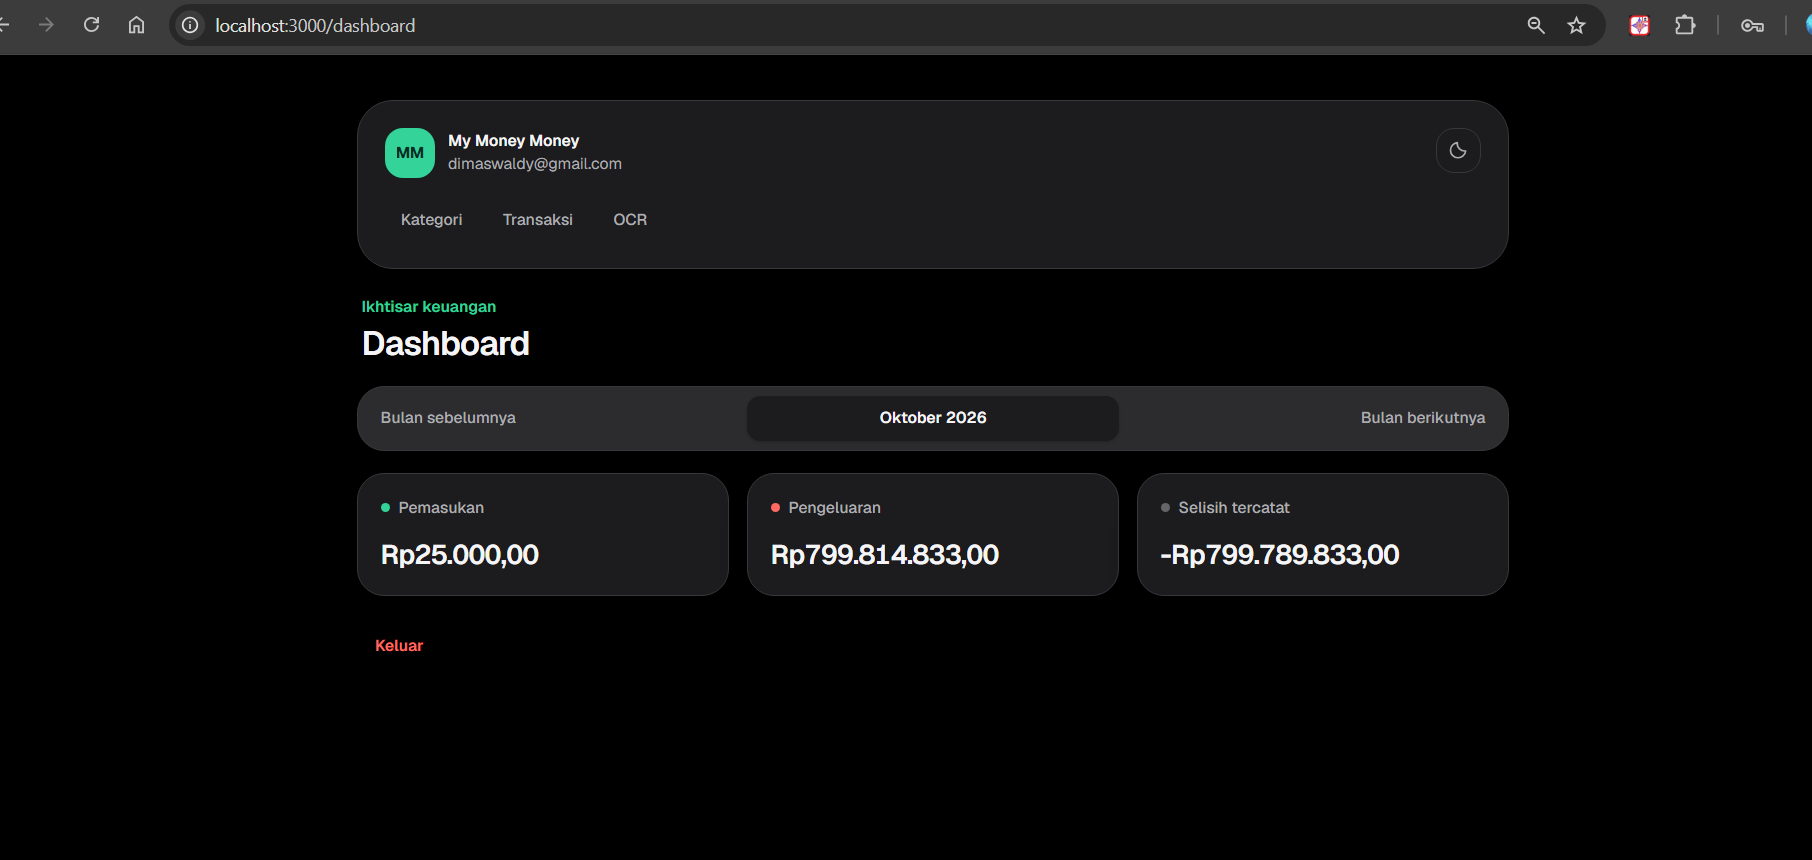
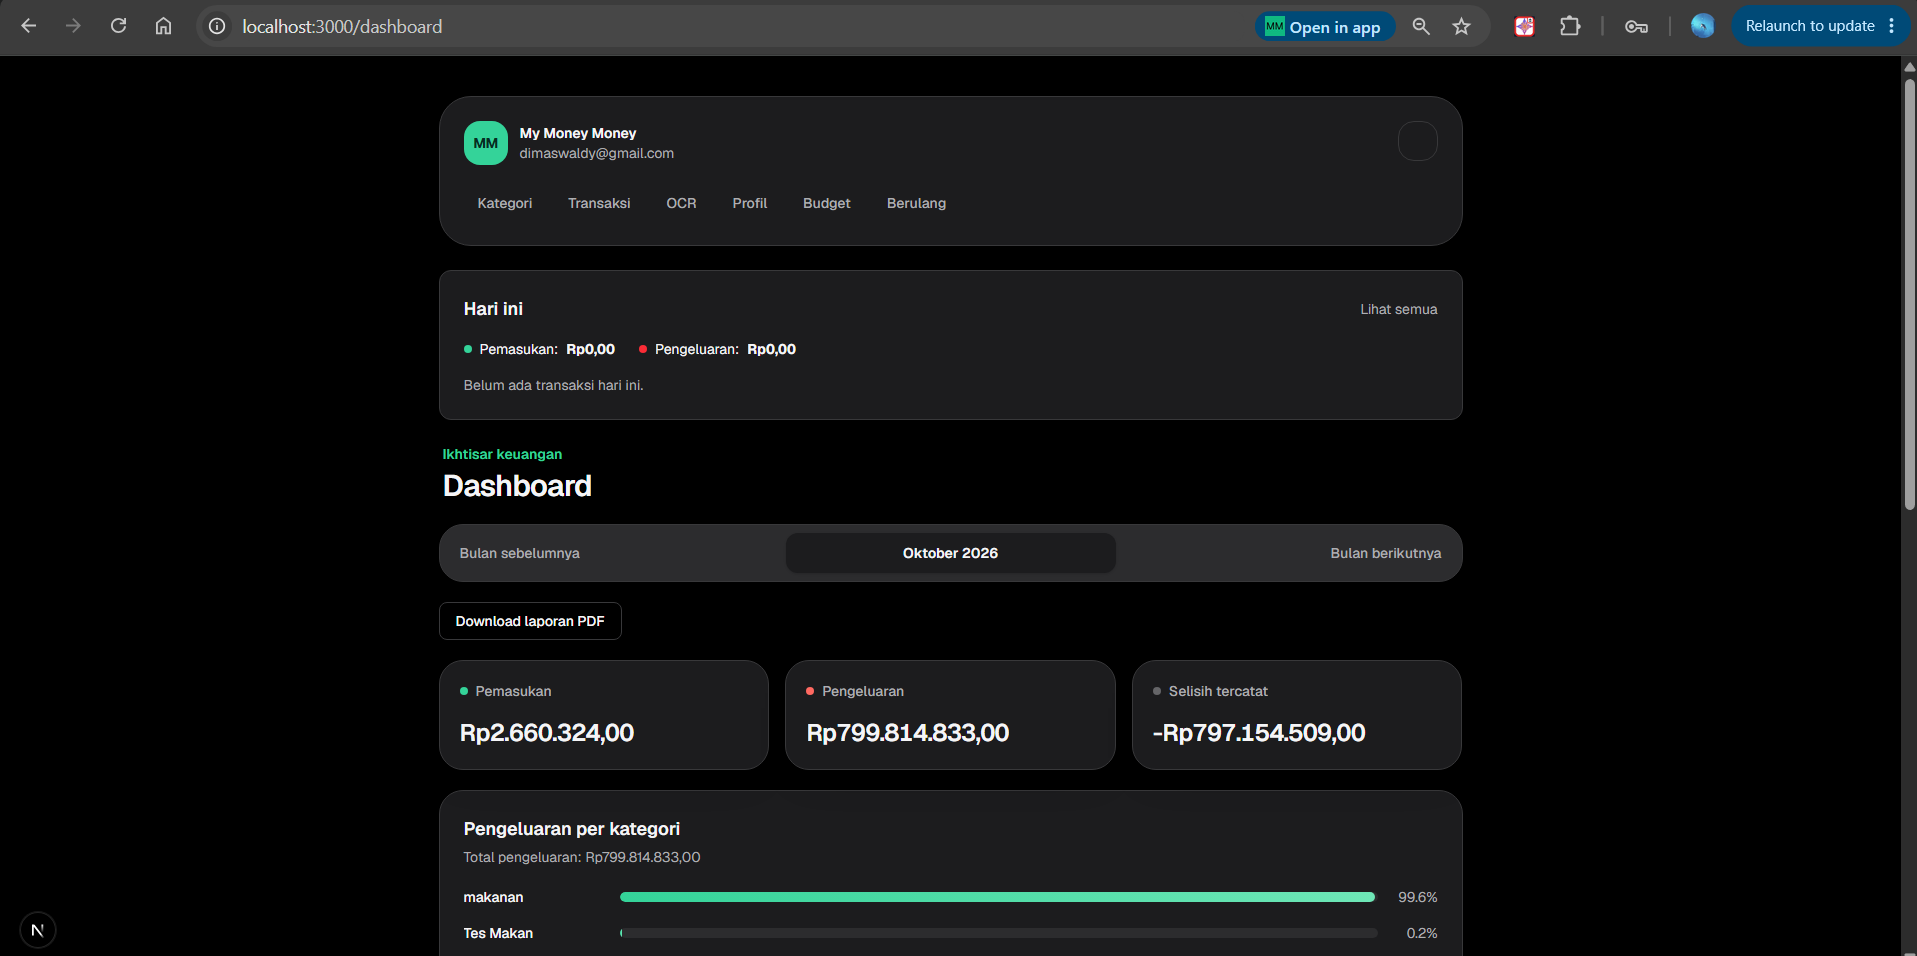
Perbarui screenshot dengan fitur terbaru

diff --git a/README.md b/README.md
@@ -48,6 +48,10 @@
 
 ![OCR](docs/screenshots/ocr.png)
 
+**Profil dengan statistik:**
+
+![Profil](docs/screenshots/profil.png)
+
 ## Menjalankan di lokal
 
 1. Clone repo dan `npm install`.
